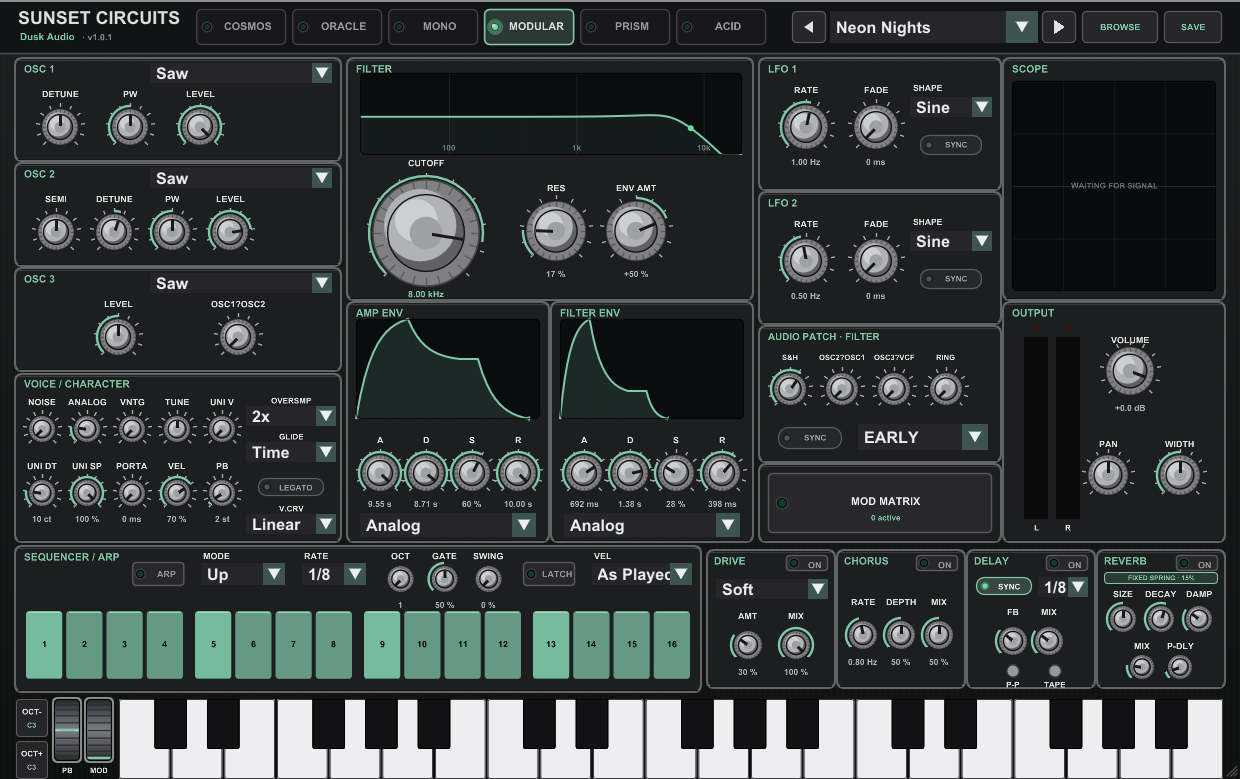
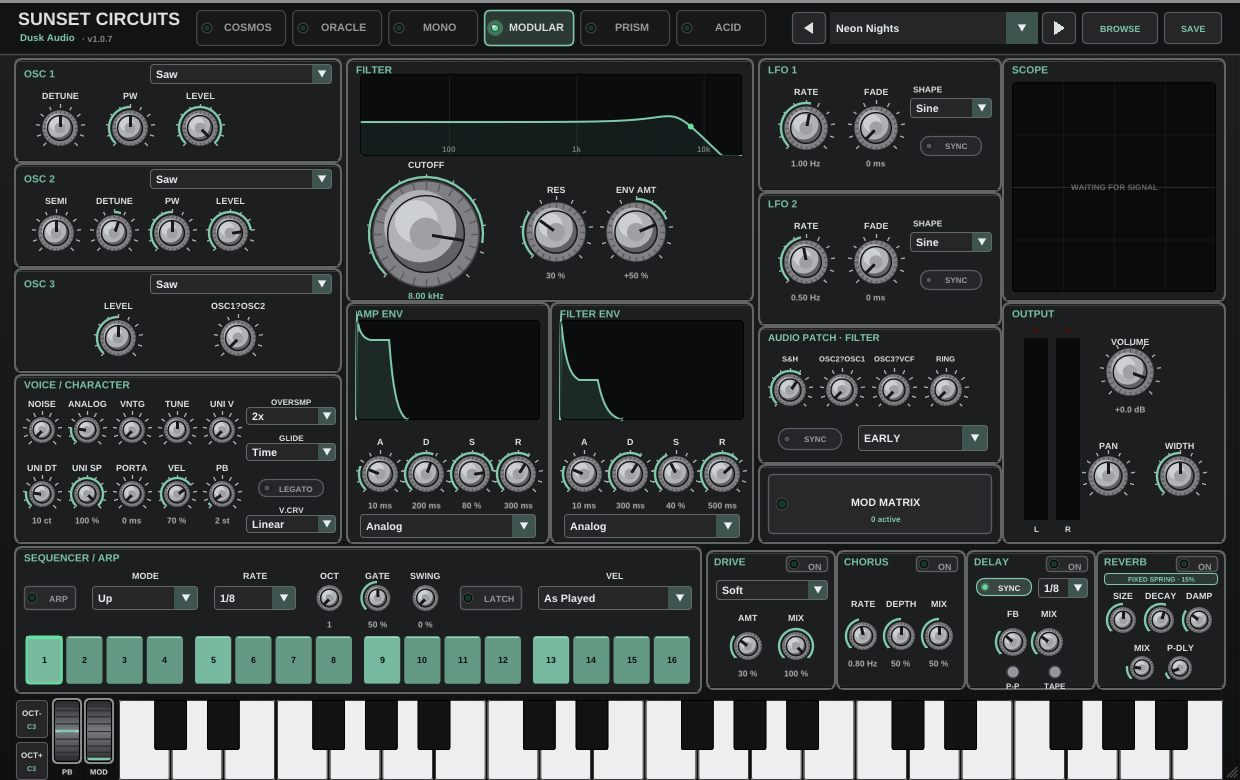
fix(sunset-circuits): align editor fields and sequencer controls

diff --git a/plugins/sunset-circuits/daf-plugin/MultiSynthUI.cpp b/plugins/sunset-circuits/daf-plugin/MultiSynthUI.cpp
@@ -612,7 +612,7 @@ private:
     }
 
     void panelBox(float x0, float y0, float x1, float y1, float alpha = 1.0f,
-                  ImU32 cosmosBand = 0)
+                  ImU32 cosmosBand = 0, float bandHeight = 20.0f)
     {
         // The older 3 px bright metal frame gave every nested section the same
         // visual weight. A slimmer, chassis-blended rail keeps the hardware
@@ -627,7 +627,7 @@ private:
         dl->AddLine(P(x0 + 2, y1 - 1), P(x1 - 2, y1 - 1),
                     mulA(lerpC(live.panel, IM_COL32(0, 0, 0, 255), 0.26f), alpha), 1.0f * s);
         if (cosmosBand != 0 && live.cosmos > 0.0f)
-            dl->AddRectFilled(P(x0 + 2, y0 + 2), P(x1 - 2, y0 + 20),
+            dl->AddRectFilled(P(x0 + 2, y0 + 2), P(x1 - 2, y0 + bandHeight),
                               mulA(cosmosBand, alpha * live.cosmos), 4.0f * s,
                               ImDrawFlags_RoundCornersTop);
     }
@@ -1074,12 +1074,15 @@ private:
         ImGui::InvisibleButton(id, ImVec2(b1.x - b0.x, b1.y - b0.y));
         if (ImGui::IsItemHovered(ImGuiHoveredFlags_ForTooltip))
             ImGui::SetTooltip("%s", whyTip);
-        const ImU32 bg = lerpC(IM_COL32(38, 38, 41, 255), live.accent, 0.08f);
-        dl->AddRectFilled(b0, b1, mulA(bg, alpha), 3.0f * s);
-        dl->AddRect(b0, b1, mulA(withA(live.accent, 150), alpha),
+        dl->AddRectFilled(b0, b1, mulA(IM_COL32(38, 38, 41, 255), alpha), 3.0f * s);
+        dl->AddRect(b0, b1, mulA(IM_COL32(100, 102, 104, 255), alpha),
                     3.0f * s, 0, 1.0f * s);
-        text(0.5f * (x0 + x1), y0 + 0.28f * (y1 - y0), 10.0f,
-             mulA(IM_COL32(230, 232, 235, 255), alpha), label, 0, true);
+        // Match the adjacent combo's font, left inset and vertical centering.
+        ImFont* const font = panel.pickFont(12.0f * s);
+        const ImVec2 pos(b0.x + 6.0f * s,
+                         b0.y + 0.5f * (b1.y - b0.y - font->FontSize));
+        dl->AddText(font, font->FontSize, pos,
+                    mulA(IM_COL32(235, 238, 242, 255), alpha), label);
     }
 
     void setChoice(uint32_t p, int v)
@@ -1097,8 +1100,13 @@ private:
         ImGui::SetNextItemWidth((x1 - x0) * s);
         ImFont* f = panel.pickFont(12.0f * s);
         ImGui::PushFont(f);
-        float padY = ((y1 - y0) * s - f->FontSize) * 0.5f; if (padY < 1.0f) padY = 1.0f;
+        // Let padding reach zero at the minimum editor size so the native
+        // widget stays within the same row as the drawn fields and labels.
+        const float padY = std::max(0.0f, ((y1 - y0) * s - f->FontSize) * 0.5f);
         ImGui::PushStyleVar(ImGuiStyleVar_FramePadding, ImVec2(6.0f * s, padY));
+        ImGui::PushStyleVar(ImGuiStyleVar_FrameRounding, 3.0f * s);
+        ImGui::PushStyleVar(ImGuiStyleVar_FrameBorderSize, 1.0f * s);
+        ImGui::PushStyleColor(ImGuiCol_Border, IM_COL32(100, 102, 104, 255));
         ImGui::PushStyleColor(ImGuiCol_FrameBg,  acid ? IM_COL32(70, 72, 78, 255) : IM_COL32(38, 38, 41, 255));
         ImGui::PushStyleColor(ImGuiCol_PopupBg,  IM_COL32(24, 24, 26, 255));
         ImGui::PushStyleColor(ImGuiCol_Header,   withA(live.accent, 150));
@@ -1121,8 +1129,8 @@ private:
         }
         if (tips[p] && ImGui::IsItemHovered(ImGuiHoveredFlags_ForTooltip))
             ImGui::SetTooltip("%s", tips[p]);
-        ImGui::PopStyleColor(7);
-        ImGui::PopStyleVar();
+        ImGui::PopStyleColor(8);
+        ImGui::PopStyleVar(3);
         ImGui::PopFont();
     }
 
@@ -1310,7 +1318,7 @@ private:
         ImGui::SetNextItemWidth(kBarComboW * s);
         ImFont* f = panel.pickFont(12.0f * s);
         ImGui::PushFont(f);
-        // FramePadding.y floored at 1 px, as in comboBox(): at the 620x390 minimum
+        // FramePadding.y floored at 1 px: at the 620x390 minimum
         // the atlas face can be taller than the row, and a negative padding
         // collapses the combo frame rather than tightening it.
         const float comboPadY = std::max(1.0f, ((kBarY1 - kBarY0) * s - f->FontSize) * 0.5f);
@@ -1775,8 +1783,8 @@ private:
         // OSC 1 — DETUNE / PW / LEVEL, plus Cosmos X-MOD. Oracle's defining
         // OSC 2 -> OSC 1 routing belongs exclusively to its Poly-Mod panel; showing
         // X-MOD here as well exposed two controls for effectively the same route.
-        panelBox(16, g1.y0, 340, g1.y1, 1.0f, kCosmosRed);
-        sectionTitle(24, g1.rowY, "OSC 1");
+        panelBox(16, g1.y0, 340, g1.y1, 1.0f, kCosmosRed, 26.0f);
+        sectionTitle(24, g1.rowY + 4.0f, "OSC 1");
         comboBox("o1w", kParamOsc1Wave, 150, g1.rowY, 332, g1.comboY1, kWave5, 5, curMode == 5);
         klabel(60, g1.labelY, "DETUNE");
         if (curMode == 5)
@@ -1799,8 +1807,8 @@ private:
         // OSC 2 — SEMI / DETUNE / PW / LEVEL. Four columns 58 apart against the same
         // 49 px ring, so 9 px of daylight (VOICE / CHARACTER runs 6, so this is the
         // roomier of the two grids).
-        panelBox(16, g2.y0, 340, g2.y1, 1.0f, kCosmosRed);
-        sectionTitle(24, g2.rowY, "OSC 2");
+        panelBox(16, g2.y0, 340, g2.y1, 1.0f, kCosmosRed, 26.0f);
+        sectionTitle(24, g2.rowY + 4.0f, "OSC 2");
         if (curMode == 5)
         {
             text(178, g2.cy - 13.0f, 11.0f, whiteDimCol(),
@@ -1842,10 +1850,10 @@ private:
 
         // OSC 3 / SUB — mode-variant contents, but the SAME frame and knob row as the
         // two panels above it in every mode (that is the whole point of the rework).
-        panelBox(16, g3.y0, 340, g3.y1, 1.0f, kCosmosRed);
+        panelBox(16, g3.y0, 340, g3.y1, 1.0f, kCosmosRed, 26.0f);
         if (curMode == 3) // Modular -> osc3
         {
-            sectionTitle(24, g3.rowY, "OSC 3");
+            sectionTitle(24, g3.rowY + 4.0f, "OSC 3");
             comboBox("o3w", kParamOsc3Wave, 150, g3.rowY, 332, g3.comboY1, kWave4, 4, false);
             // Centred as a pair on the panel's midline (178) like the SUB OSC
             // variant's lone LEVEL knob; 90/240 sat 13 px left of centre.
@@ -1854,13 +1862,13 @@ private:
         }
         else if (curMode == 0 || curMode == 2) // Cosmos / Mono -> sub
         {
-            sectionTitle(24, g3.rowY, "SUB OSC");
+            sectionTitle(24, g3.rowY + 4.0f, "SUB OSC");
             comboBox("subw", kParamSubWave, 150, g3.rowY, 332, g3.comboY1, kSubWave, 2, curMode == 5);
             klabel(178, g3.labelY, "LEVEL"); knob("sublvl", kParamSubLevel, 178, g3.cy, kOscR, "%.0f", " %", false, false, false, 100.0f);
         }
         else
         {
-            sectionTitle(24, g3.rowY, "AUX OSC");
+            sectionTitle(24, g3.rowY + 4.0f, "AUX OSC");
             text(178, g3.cy - 13.0f, 11.0f, whiteDimCol(),
                  "NO AUXILIARY OSCILLATOR", 0, true);
             text(178, g3.cy + 5.0f, 9.5f,
@@ -3364,7 +3372,7 @@ private:
         text(kBrCX0, 110, 10.0f, live.textPanel, "FIND", -1, true);
         ImGui::SetCursorScreenPos(P(kBrCX0 + 42, 104));
         ImGui::SetNextItemWidth(318.0f * s);
-        // FramePadding.y floored at 1 px, same as comboBox(): at the 620x390
+        // FramePadding.y floored at 1 px: at the 620x390
         // minimum the crisp atlas hands back a face whose FontSize can exceed the
         // 26*s row height, and the resulting negative padding collapses the frame
         // (and clips the caret) instead of merely tightening it.
@@ -3682,10 +3690,6 @@ private:
     }
     void drawSequencer()
     {
-        // Panel top 548 (was 524): the lower body row above grew +24, so the
-        // sequencer gives that height back at the top. The transport header (y
-        // 552..606) carries the labels, controls and read-outs; the step lanes
-        // occupy the remaining height down to the 692 floor.
         panelBox(16, 548, 700, 692, 1.0f, kCosmosBlue);
         if (curMode == 5)
         {
@@ -3693,138 +3697,59 @@ private:
             drawAcidSequencerBody();
             return;
         }
-        const char* const seqTitle = "SEQUENCER / ARP";
-        sectionTitle(24, 552, seqTitle);
+        sectionTitle(24, 552, "SEQUENCER / ARP");
 
-        // --- transport header: ONE rhythm, no dead air ------------------------
-        // The row is six groups — ARP | MODE | RATE | OCT/GATE/SWING | LATCH |
-        // VEL — laid out right-to-left off the 692 rule the step lane below also
-        // ends on, with a single gap `g` repeated between EVERY pair including
-        // title -> ARP. The old fixed x=160 start left the five arpeggiator
-        // modes opening on a 45 px hole while their own inter-group gaps were
-        // 6..11 px. Solving the gap from the title width keeps one even rhythm
-        // across the row.
-        //
-        // Knobs are r13 and TICKLESS, matching the FX strip idiom next door:
-        // reach is r+3+1.2 = +/-17.2 (value arc + half its stroke) instead of the
-        // tick ring's +/-20.5, which makes all three read as one family (as r14
-        // ringed knobs they differed enough in apparent size/weight to look like
-        // three different widgets).
-        //
-        // MEASURED ink extents, not the 0.675*size convention the older comments in
-        // this file use — that convention is wrong. Rendered at s=1 through this
-        // atlas, a label drawn with its top at y552 puts ink on rows 555..560, i.e.
-        // the ink box runs 9.0 px below the draw origin for every size in this row
-        // (9.5 / 10 / 11 all snap to neighbouring atlas faces). So:
-        //   label top 552          -> ink bottom 561
-        //   knob centre hy = 580   -> arc top 562.8   =>  1.8 px clearance
-        // hy was 578, which put the arc top at 560.8 and had the label ink
-        // overlapping it by 0.2 px. Downstream of hy = 580 (all verified by pixel
-        // scan): the read-out (top hy+r+8 = 601) has ink bottom 610, clearing the
-        // step lane at y612 by 2.0 px.
-        const int  velMode  = (int)std::lround(values[kParamArpVelMode]);
-        const bool velFixed = velMode == 1;
-        const bool velAccent = velMode == 2;
-        const float kr = 13.0f, khw = kr + 4.5f, kdx = 44.0f;  // radius / half-reach / pitch
-        const float wArp = 52.0f, wMode = 84.0f, wRate = 64.0f, wLatch = 52.0f;
-        const float wKnobs = 2.0f * kdx + 2.0f * khw;          // 123
-        // The VEL group is 100 wide in BOTH velocity modes so that switching to
-        // Fixed does not reflow the whole row: Fixed spends the width on a 58 px
-        // combo ("Fixed" is short) plus the value knob, the other modes give all
-        // 100 to the combo (which "As Played" wants — it was clipping at 86).
-        const float wVel = 100.0f;
-        const float xR = 692.0f;
-        const float titleEnd = 24.0f + textW(11.0f, seqTitle);
-        const float wSum = wArp + wMode + wRate + wKnobs + wLatch + wVel;   // 475
-        float g = (xR - titleEnd - wSum) / 6.0f;
-        g = g < 12.0f ? 12.0f : (g > 22.0f ? 22.0f : g);        // font-metric guard
-        auto hlabel = [&](float x, const char* t, int align)
-        { text(x, 552, 10.0f, live.textPanel, t, align, true); };
-
-        const float hy = 580.0f;
-        // Persistent read-outs for OCT/GATE/SWING (spec §3.1b step 7): drawn top
-        // hy + r + 8 = 601, ink bottom 610, clearing the lane top at 612.
+        // The title has its own strip. All transport controls share one centre
+        // line below it, with labels above and read-outs below. Fixed group
+        // widths keep the row still when the velocity mode changes.
+        const int velMode = (int)std::lround(values[kParamArpVelMode]);
+        const bool velFixed = velMode == 1, velAccent = velMode == 2;
+        constexpr float kr = 13.0f, khw = kr + 4.5f, kdx = 48.0f;
+        constexpr float wArp = 52.0f, wMode = 106.0f, wRate = 82.0f;
+        constexpr float wKnobs = 132.0f, wLatch = 62.0f, wVel = 154.0f;
+        constexpr float gap = 16.0f, xR = 692.0f, cy = 598.0f;
+        constexpr float fieldTop = cy - 12.0f, fieldBottom = cy + 12.0f;
+        auto hlabel = [&](float x, const char* t)
+        { text(x, 570, 10.0f, live.textPanel, t, 0, true); };
         const bool ro = readoutsOn();
 
-        // Walking left-to-right from the title only lands on the 692 rule while `g`
-        // is the SOLVED value; once the clamp engages (a title wide enough to drive g
-        // below 12) the row would march straight through the right wall and into the
-        // FX strip, so pin the start to whatever still ends at xR and let the
-        // title gap absorb the difference instead.
-        float x = titleEnd + g;
-        const float xMax = xR - wSum - 5.0f * g;
-        if (x > xMax) x = xMax;
-        // LED buttons are h24 centred on 575, the same centre line as the combos
-        // (they used to sit 5 px high, which read as a misaligned row).
-        ledButton("arpon", kParamArpOn, x, 563, x + wArp, 587, "ARP");
-        x += wArp + g;
-        hlabel(x + 2, "MODE", -1);
-        comboBox("arpmode", kParamArpMode, x, 564, x + wMode, 586, kArpMode, 7);
-        x += wMode + g;
-        hlabel(x + 2, "RATE", -1);
-        comboBox("arprate", kParamArpRate, x, 564, x + wRate, 586, kDivName, 14);
-        x += wRate + g;
+        float x = 24.0f;
+        ledButton("arpon", kParamArpOn, x, fieldTop, x + wArp, fieldBottom, "ARP");
+        x += wArp + gap;
+        hlabel(x + wMode * 0.5f, "MODE");
+        comboBox("arpmode", kParamArpMode, x, fieldTop, x + wMode, fieldBottom, kArpMode, 7);
+        x += wMode + gap;
+        hlabel(x + wRate * 0.5f, "RATE");
+        comboBox("arprate", kParamArpRate, x, fieldTop, x + wRate, fieldBottom, kDivName, 14);
+        x += wRate + gap;
         const float kx0 = x + khw;
-        hlabel(kx0, "OCT", 0);
-        knob("arpoct", kParamArpOctave, kx0, hy, kr, "%.0f", "", false, true, ro, 1.0f, 0.0f, false);
-        hlabel(kx0 + kdx, "GATE", 0);
-        knob("arpgate", kParamArpGate, kx0 + kdx, hy, kr, "%.0f", " %", false, false, ro, 100.0f, 0.0f, false);
-        hlabel(kx0 + 2.0f * kdx, "SWING", 0);
-        knob("arpswing", kParamArpSwing, kx0 + 2.0f * kdx, hy, kr, "%.0f", " %", false, false, ro, 100.0f, 0.0f, false);
-        x += wKnobs + g;
-        ledButton("arplatch", kParamArpLatch, x, 563, x + wLatch, 587, "LATCH");
-        x += wLatch + g;
-        hlabel(x + 2, "VEL", -1);
-        // Fixed mode: combo 58 wide + the value knob on the right end of the
-        // group (centre xR-13 = 679, reach 696.5, inside the 700 panel wall).
-        comboBox("arpvel", kParamArpVelMode, x, 564,
-                 velFixed ? x + 58.0f : x + wVel, 586, kArpVel, 3);
+        hlabel(kx0, "OCT");
+        knob("arpoct", kParamArpOctave, kx0, cy, kr, "%.0f", "", false, true, ro, 1.0f, 0.0f, false);
+        hlabel(kx0 + kdx, "GATE");
+        knob("arpgate", kParamArpGate, kx0 + kdx, cy, kr, "%.0f", " %", false, false, ro, 100.0f, 0.0f, false);
+        hlabel(kx0 + 2.0f * kdx, "SWING");
+        knob("arpswing", kParamArpSwing, kx0 + 2.0f * kdx, cy, kr, "%.0f", " %", false, false, ro, 100.0f, 0.0f, false);
+        x += wKnobs + gap;
+        ledButton("arplatch", kParamArpLatch, x, fieldTop, x + wLatch, fieldBottom, "LATCH");
+        x += wLatch + gap;
+        const float velWidth = velFixed ? 100.0f : wVel;
+        hlabel(x + velWidth * 0.5f, "VEL");
+        comboBox("arpvel", kParamArpVelMode, x, fieldTop, x + velWidth, fieldBottom, kArpVel, 3);
         if (velFixed)
         {
-            const float fx = xR - kr;
-            hlabel(fx, "FIX", 0);
-            knob("arpfvel", kParamArpFixedVel, fx, hy, kr, "%.0f", "", false, true, ro, 1.0f, 0.0f, false);
+            const float fx = xR - khw;
+            hlabel(fx, "FIX");
+            knob("arpfvel", kParamArpFixedVel, fx, cy, kr, "%.0f", "", false, true, ro, 1.0f, 0.0f, false);
         }
-        // ACC — the accent SHAPE, only meaningful while VEL is "Accent" (it is the
-        // sole consumer: Arpeggiator::getVelocity reads accentPattern in that
-        // branch and nowhere else). Shown/hidden, not dimmed, matching the FIX
-        // knob one line up, which is the established idiom for "this control has
-        // no meaning in the other velocity modes".
-        //
-        // It is NOT a seventh group in the solved rhythm, and that is arithmetic,
-        // not taste. A seventh group of width W re-solves g to
-        // (692 - titleEnd - 475 - W)/7, which hits the g >= 12 floor at W = 18 px.
-        // Splitting the existing 100 px VEL group in two does not work either:
-        // a combo spends 6 px of frame padding plus
-        // ~24 px of arrow before any text, so 100 px cannot carry two of them.
-        // Widening the VEL group to fit both would reflow all six groups on a
-        // velocity-mode change — precisely what the fixed 100 px width exists to
-        // prevent (see the note above it).
-        //
-        // So it takes the free band directly UNDER the VEL combo instead, right-
-        // aligned on the same 692 rule and the same 100 px wide, which keeps the
-        // column and costs the row nothing. Vertical fit (ink extents measured the
-        // same way as the rest of this header): VEL combo bottom 586 -> 2 px -> ACC
-        // 588..606 -> 6 px -> step lane at 612. The OCT/GATE/SWING read-
-        // outs share the 601..610 band but end at x~501, well left of 592; the
-        // Fixed-VEL knob's read-out does reach into this x-range, but Fixed and
-        // Accent are mutually exclusive so the two can never draw together.
-        //
         if (velAccent)
         {
-            // x still holds the VEL group's left edge (last group in the walk);
-            // deriving from it keeps ACC under VEL even if the walk's start
-            // clamp ever moves the row off the 692 rule.
-            const float ax = x;
-            text(ax - 4.0f, 590.0f, 8.5f, live.textPanel, "ACC", 1, true);
-            comboBox("arpacc", kParamArpAccentPattern, ax, 588, xR, 606, kArpAccent, 4);
+            // Accent shares the read-out row; it cannot overlap the Fixed knob.
+            text(x, 616.0f, 8.5f, live.textPanel, "ACC", -1, true);
+            comboBox("arpacc", kParamArpAccentPattern, x + 28.0f, 612, xR, 630, kArpAccent, 4);
         }
 
-        const int step = liveStep();
-        // Single mute row, y 612..680 (h68), starting 6.6 px below the knob
-        // read-out ink. The 16 cells are split into four bar-groups with an
-        // 8 px gap between groups, so the pattern reads as 4 bars of 4.
-        drawStepRow(24, 612, 692, 68, kParamArpStep0, step, true, 8.0f);
+        // Leave clear space below both the knob read-outs and the accent field.
+        drawStepRow(24, 636, 692, 48, kParamArpStep0, liveStep(), true, 8.0f);
     }
 
     void drawAcidSequencerBody()
@@ -3835,10 +3760,10 @@ private:
         auto hlabel = [&](float x, const char* t, int align)
         { text(x, 552, 10.0f, live.textPanel, t, align, true); };
 
-        ledButton("acid_run", kParamArpOn, 158, 563, 216, 587, "RUN");
+        ledButton("acid_run", kParamArpOn, 158, 568, 216, 592, "RUN");
 
         hlabel(230, "RATE", -1);
-        comboBox("acid_rate", kParamArpRate, 228, 564, 294, 586,
+        comboBox("acid_rate", kParamArpRate, 228, 569, 294, 591,
                  kDivName, 14, true);
 
         constexpr float kr = 13.0f;
@@ -3849,12 +3774,12 @@ private:
         knob("acid_swing", kParamArpSwing, 374, 580, kr, "%.0f", " %",
              false, false, false, 100.0f, 0.0f, false);
 
-        ledButton("acid_latch", kParamArpLatch, 406, 563, 470, 587, "LATCH");
+        ledButton("acid_latch", kParamArpLatch, 406, 568, 470, 592, "LATCH");
 
         const int step = liveStep();
-        dl->AddRectFilled(P(484, 563), P(692, 587),
+        dl->AddRectFilled(P(484, 568), P(692, 592),
                           IM_COL32(38, 39, 43, 255), 4.0f * s);
-        dl->AddRect(P(484, 563), P(692, 587), withA(live.accent, 120),
+        dl->AddRect(P(484, 568), P(692, 592), withA(live.accent, 120),
                     4.0f * s, 0, 1.0f * s);
         if (step >= 0 && step < 16)
         {
@@ -3865,12 +3790,12 @@ private:
                           step + 1,
                           accent ? "ACC" : "NORMAL",
                           slide ? " + SLIDE" : "");
-            text(588, 570, 9.0f, IM_COL32(231, 233, 236, 255),
+            text(588, 575, 9.0f, IM_COL32(231, 233, 236, 255),
                  status, 0, true);
         }
         else
         {
-            text(588, 570, 9.0f, whiteDimCol(),
+            text(588, 575, 9.0f, whiteDimCol(),
                  values[kParamArpOn] > 0.5f ? "WAITING FOR TRANSPORT" : "PATTERN READY",
                  0, true);
         }

diff --git a/manuals/screenshots/sunset-circuits/README.md b/manuals/screenshots/sunset-circuits/README.md
@@ -4,15 +4,15 @@ Sunset Circuits re-skins its whole panel per mode: the accent color, the mode
 sub-panel, and a handful of mode-specific controls all change. One shot per mode
 is therefore the useful set, rather than a single "main UI" capture.
 
-All shots are the standalone build at the default window size, on the factory
-preset "Neon Nights".
+All shots are captured from the built CLAP editor on a private X11 display at
+the default 1240 × 780 window size, starting from the factory preset "Neon Nights".
 
 | Filename | What it shows |
 | --- | --- |
-| `01-main-ui.png` | Full UI in Cosmos, the default mode. Amber panel, the six mode rockers along the top, oscillator and mixer column on the left, filter and the two envelopes in the center, LFOs and mod matrix on the right, sequencer and effects along the bottom over the keyboard. The BBD CHORUS sub-panel is set to I+II. |
+| `01-main-ui.png` | Full UI in Cosmos, the default mode. Charcoal panel with red and blue section headers, the six mode rockers along the top, oscillator and mixer column on the left, filter and the two envelopes in the center, LFOs and mod matrix on the right, sequencer and effects along the bottom over the keyboard. The BBD CHORUS sub-panel is set to I+II. |
 | `02-mode-oracle.png` | Oracle. Two-oscillator layout with no sub, the AUX OSC slot reading "no auxiliary oscillator", and the POLY-MOD / SYNC sub-panel with its Filter Env and Osc 2 routing knobs. |
 | `03-mode-mono.png` | Mono. Grey panel, two oscillators plus the sub, and the RING / SYNC sub-panel with the Ring knob and the Hard Sync button. |
 | `04-mode-modular.png` | Modular. Green panel with the third oscillator, the AUDIO PATCH / FILTER sub-panel carrying S&H, Osc2 to Osc1, Osc3 to VCF and Ring, and the reverb section showing its fixed spring send. |
 | `05-mode-prism.png` | Prism. The left column becomes the four-operator matrix, each operator with ratio, fine, level, velocity, key scaling and its own envelope; operator 4 carries feedback. The ALGORITHM sub-panel lists the eight routings with a diagram of the active one. |
-| `06-mode-acid.png` | Acid. Orange panel, single-oscillator engine with Osc 2 bypassed, the ACID ENGINE signal-path diagram, accent and slide controls, and the pattern sequencer with its Gate, Pitch, Acc and Slide lanes. |
-| `07-preset-browser.png` | The preset browser, factory presets grouped in a column per mode with the user library in its own column. |
+| `06-mode-acid.png` | Acid. Silver panel with orange accents, single-oscillator engine with Osc 2 bypassed, the ACID ENGINE signal-path diagram, accent and slide controls, and the pattern sequencer with its Gate, Pitch, Acc and Slide lanes. |
+| `07-preset-browser.png` | The preset browser, a grid of preset cards with mode and bank badges, search, and mode and bank filters. |

diff --git a/manuals/sunset-circuits.md b/manuals/sunset-circuits.md
@@ -360,7 +360,7 @@ The drop-down is a list you scroll. The browser is the library you read. **BROWS
 
 The footer shows how many presets the current filters match. The browser reads the preset library as it was last scanned; see the note on rescanning below.
 
-![The preset browser: factory presets laid out in a column per mode, Cosmos through Acid, with the user library in its own column](screenshots/sunset-circuits/07-preset-browser.png)
+![The preset browser: a grid of preset cards with mode and bank badges, a search field, and mode and bank filters](screenshots/sunset-circuits/07-preset-browser.png)
 
 ### The user preset library
 
